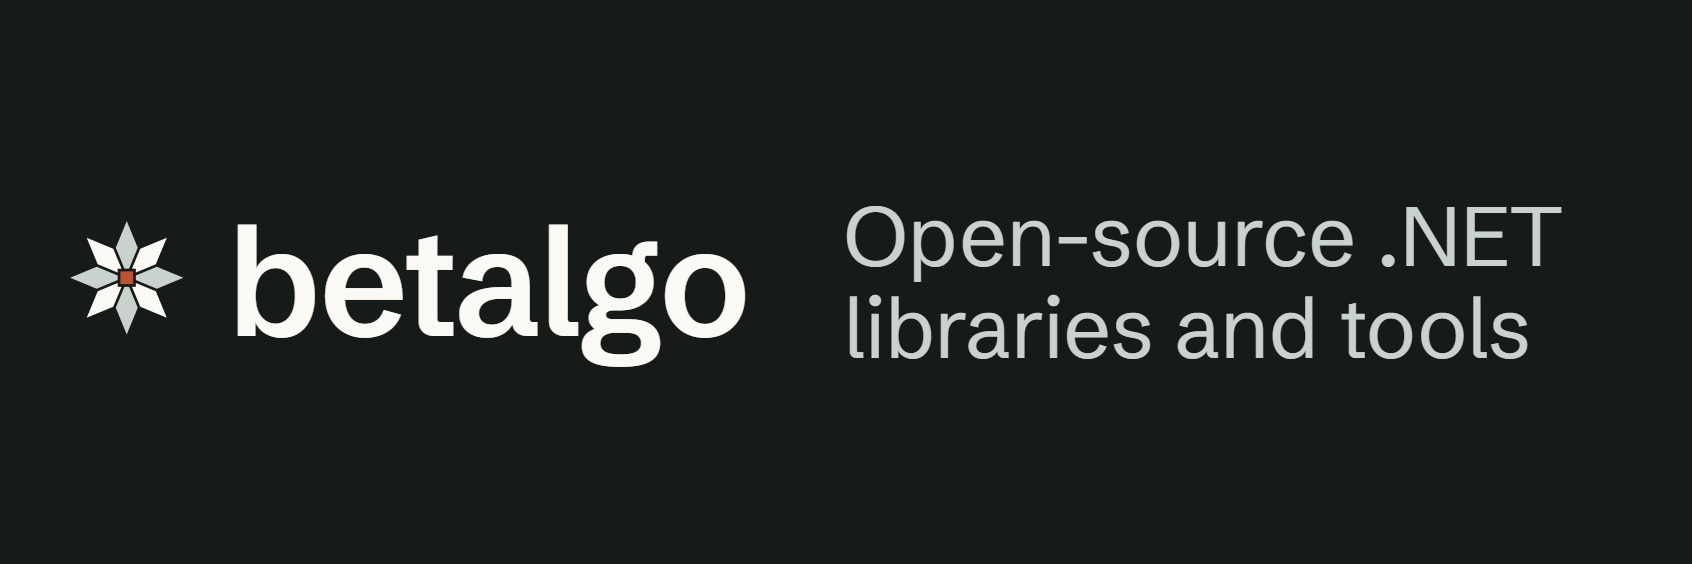
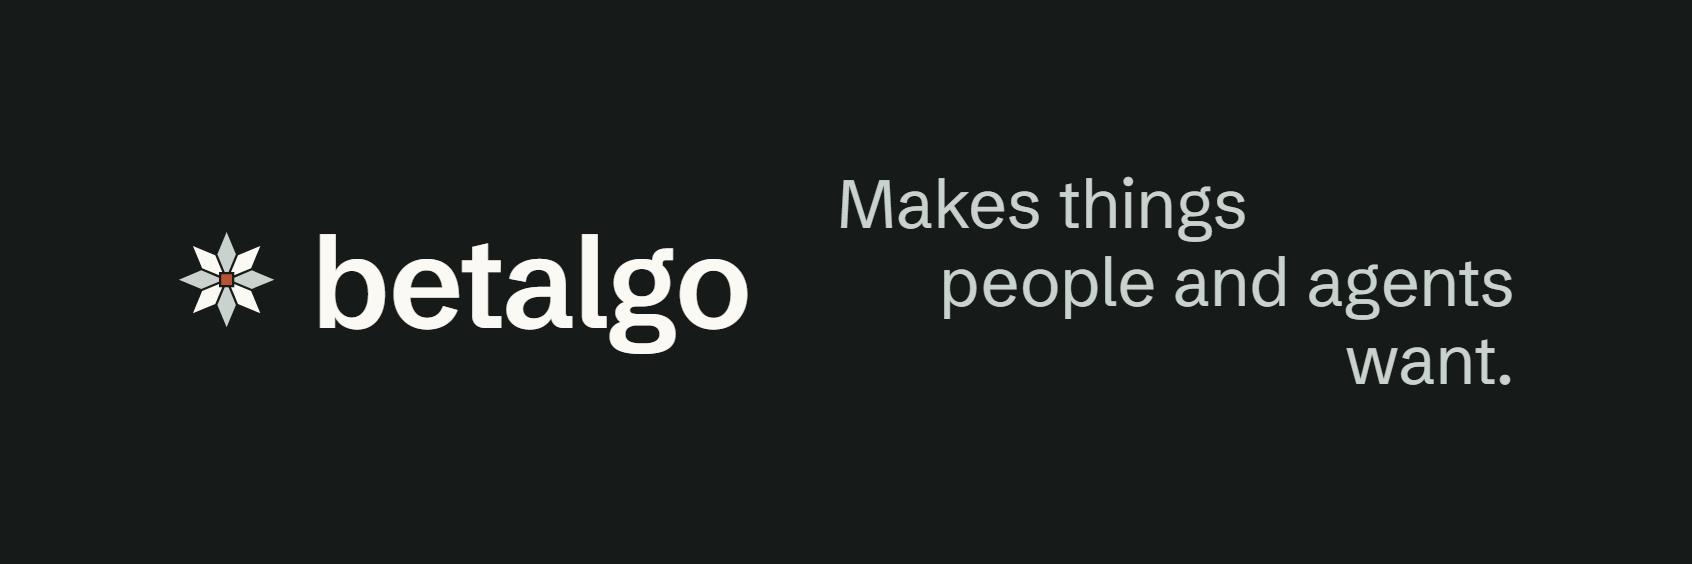
Betalgo's GitHub profile: the new line and the products (#7)
Replaces profile/README.md and profile/banner.png, byte for byte from
betalgo/betalgo-media-design at 74a4bc405582c6ff787ca5a6ab944b8d8f2cabc6:
the Markdown block in docs/github-profile-readme.md, and
design-system/assets/exports/github/profile-banner--default.png.
The banner now reads "Makes things people and agents want." and the
README lists the products, then the open-source projects. The founder
approved both on 2026-11-21 (betalgo-media-design#8).

Changed region(s): [[0.4917, 0.3014, 0.922, 0.6933], [0.0307, 0.3918, 0.461, 0.6631]]

diff --git a/profile/README.md b/profile/README.md
@@ -1,10 +1,14 @@
-![Betalgo: open-source .NET libraries and tools](banner.png)
+![Betalgo. Makes things people and agents want.](banner.png)
 
-**Libraries**
-- [Betalgo.Ranul.OpenAI](https://github.com/betalgo/openai): .NET library for the OpenAI API
-- [Betalgo.Ranul.Anthropic](https://github.com/betalgo/Anthropic): .NET library for the Anthropic Claude API
+**Products**
+- [Welvets](https://welvets.com): Agents with habits.
+- [SoloPewPew](https://solopewpew.com): Home of solo founders.
+- [Laser Cat Eyes](https://lasercateyes.com)
+- [Ranul and Tinga](https://ranultinga.com)
 
-**Tools**
-- [NugetPublisher](https://github.com/betalgo/NugetPublisher): a GitHub Action that publishes .NET packages to NuGet.org and GitHub Packages
+**Open source**
+- [OpenAI for .NET](https://github.com/betalgo/openai)
+- [Anthropic for .NET](https://github.com/betalgo/Anthropic)
+- [NugetPublisher](https://github.com/betalgo/NugetPublisher)
 
 [betalgo.com](https://www.betalgo.com)
